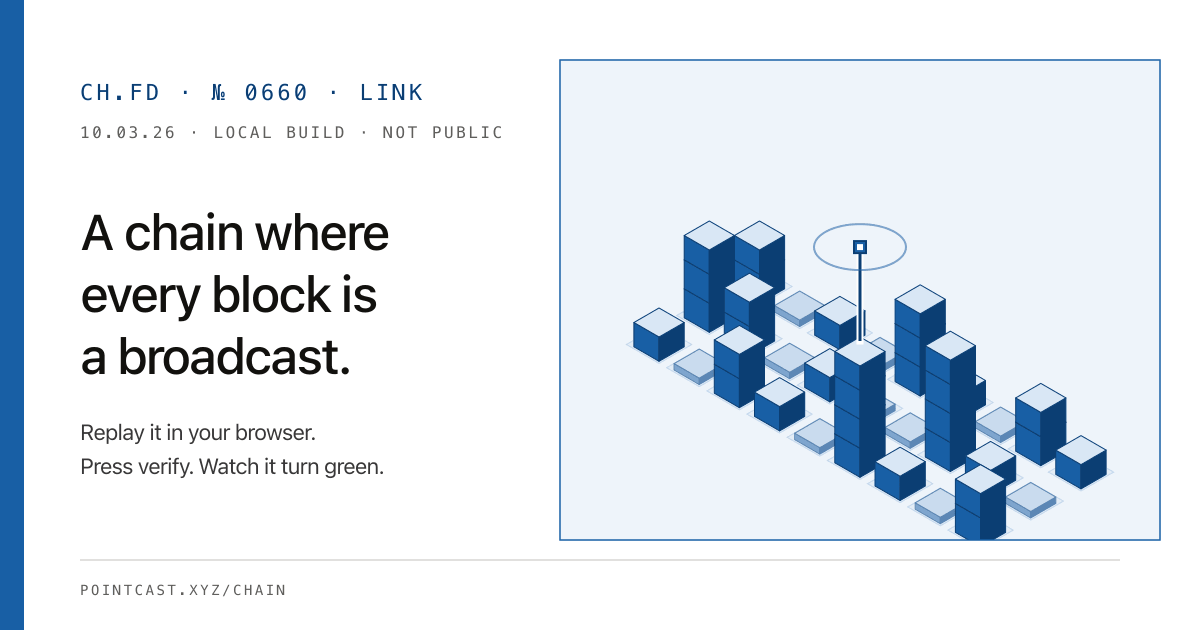
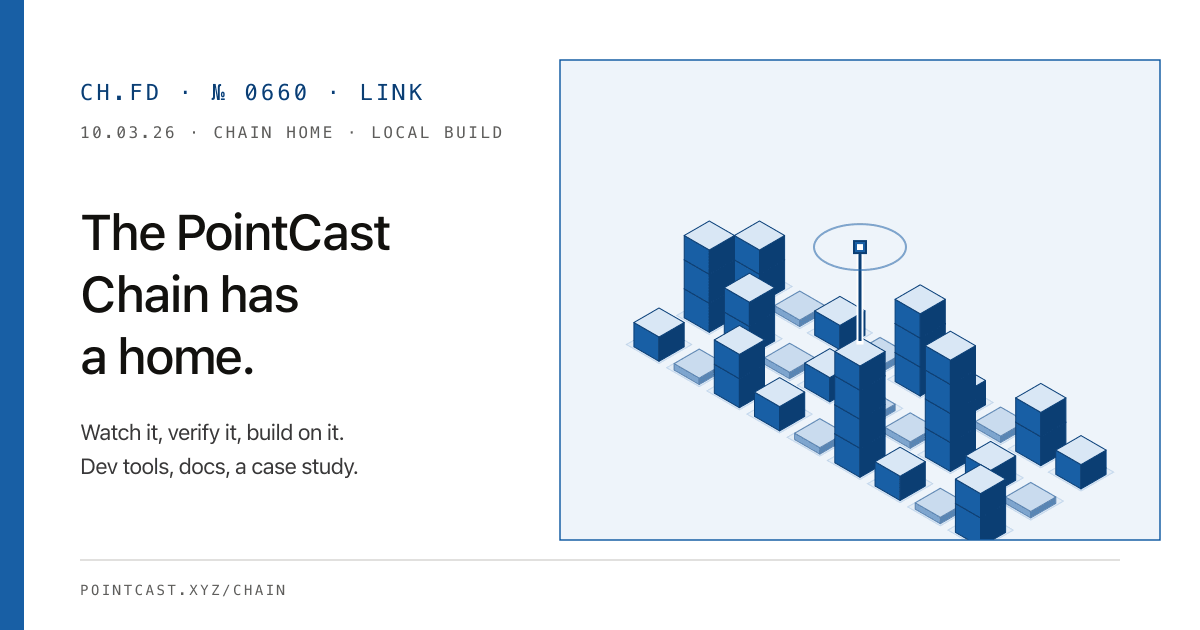
/chain: publish the chain home (block 0660, front door, discovery)
- Block 0660 now announces the Chain home: the yard, dev tools and docs,
  the case study and the intern assignments. Plain-text body, links in
  companions; OG card refreshed (abstract cubes and beacon).
- Front-door news and the homepage latest-projects entry point at /chain
  with the new framing; /chain stays linked from the homepage via data.
- Discovery: sitemap-discovery, agent-surfaces + agents.json, for-agents,
  llms.txt, llms-full.txt and the app registry list the new routes.
- _headers: CORS on /chain/sdk/* so other origins can import the SDK.

diff --git a/src/lib/pointcast-apps.ts b/src/lib/pointcast-apps.ts
@@ -11,7 +11,7 @@ export interface PointcastApp {
 }
 
 export const POINTCAST_APPS: PointcastApp[] = [
-  {slug:'chain',name:'PointCast Chain',kicker:'CHAIN · LOCAL BUILD · BLOCK YARD',description:'A chain where every block is a broadcast: 422 recorded blocks replayed and verified in your browser with the same code the sequencer runs. Local build, not a public network.',url:'https://pointcast.xyz/chain/',path:'/chain/',repo:'https://github.com/mhoydich/pointcast',channel:'CH.FD',kind:'pointcast'},
+  {slug:'chain',name:'PointCast Chain',kicker:'CHAIN · HOME · LOCAL BUILD',description:'The home of pointcast-chain: the Block Yard, replayed and verified in your browser with the same code the sequencer runs, plus dev tools, docs, a case study and intern assignments. Local build, not a public network.',url:'https://pointcast.xyz/chain/',path:'/chain/',repo:'https://github.com/mhoydich/pointcast',channel:'CH.FD',kind:'pointcast'},
   {slug:'object-library',name:'El Segundo Object Library',kicker:'BORROW / TRY / IMPROVE · CONCEPT DEMO',description:'Six original object concepts and a browser-local lending rehearsal. No inventory, bookings, payments or operating workshop.',url:'https://pointcast.xyz/object-library/',path:'/object-library/',repo:'https://github.com/mhoydich/pointcast',channel:'CH.ESC',kind:'pointcast'},
   {slug:'weather-atlas',name:'A year within reach',kicker:'EL SEGUNDO · 25-MILE WEATHER & LIVING ATLAS',description:'Four NOAA1991–2020 station normals,35years of observed rainfall,an illustrative seasonal microclimate map and object utility. Historical research,not a forecast.',url:'https://pointcast.xyz/weather-atlas/',path:'/weather-atlas/',repo:'https://github.com/mhoydich/pointcast',channel:'CH.ESC',kind:'pointcast'},
   {

diff --git a/src/pages/agents.json.ts b/src/pages/agents.json.ts
@@ -199,6 +199,11 @@ export const GET: APIRoute = async () => {
         denOfThieves: AGENT_SURFACES.human.denOfThieves,
         playingForPizza: AGENT_SURFACES.human.playingForPizza,
         chain: AGENT_SURFACES.human.chain,
+        chainDev: AGENT_SURFACES.human.chainDev,
+        chainDocs: AGENT_SURFACES.human.chainDocs,
+        chainCaseStudy: AGENT_SURFACES.human.chainCaseStudy,
+        chainInterns: AGENT_SURFACES.human.chainInterns,
+        chainInternsData: AGENT_SURFACES.human.chainInternsData,
         objectLibrary: AGENT_SURFACES.human.objectLibrary,
         weatherAtlas: AGENT_SURFACES.human.weatherAtlas,
         everyday: AGENT_SURFACES.human.everyday,

diff --git a/src/pages/sitemap-discovery.xml.ts b/src/pages/sitemap-discovery.xml.ts
@@ -33,6 +33,10 @@ const staticUrls: SitemapEntry[] = [
   ['https://pointcast.xyz/fila.json', 'monthly', '0.8'],
   ['https://pointcast.xyz/chain/', 'monthly', '0.9'],
   ['https://pointcast.xyz/chain/yard/', 'monthly', '0.8'],
+  ['https://pointcast.xyz/chain/dev/', 'monthly', '0.7'],
+  ['https://pointcast.xyz/chain/docs/', 'monthly', '0.7'],
+  ['https://pointcast.xyz/chain/case-study/', 'monthly', '0.7'],
+  ['https://pointcast.xyz/chain/interns/', 'monthly', '0.6'],
   ['https://pointcast.xyz/chain/first-mints/', 'monthly', '0.6'],
   ['https://pointcast.xyz/object-library/', 'monthly', '0.9'],
   ['https://pointcast.xyz/object-library.json', 'monthly', '0.85'],

diff --git a/src/data/agent-surfaces.ts b/src/data/agent-surfaces.ts
@@ -6,6 +6,11 @@
 export const AGENT_SURFACES = {
   human: {
     chain: 'https://pointcast.xyz/chain/',
+    chainDev: 'https://pointcast.xyz/chain/dev/',
+    chainDocs: 'https://pointcast.xyz/chain/docs/',
+    chainCaseStudy: 'https://pointcast.xyz/chain/case-study/',
+    chainInterns: 'https://pointcast.xyz/chain/interns/',
+    chainInternsData: 'https://pointcast.xyz/chain/interns.json',
     pickleballHome: 'https://pointcast.xyz/pickleball/home/',
     pickleballBackhands: 'https://pointcast.xyz/pickleball/articles/cleaner-backhands/',
     pickleballMixedDoubles: 'https://pointcast.xyz/pickleball/articles/smarter-mixed-doubles/',

diff --git a/scripts/generate-chain-yard-art.py b/scripts/generate-chain-yard-art.py
@@ -150,12 +150,12 @@ def og_svg(block='0660'):
 <rect x="560" y="60" width="600" height="480" fill="none" stroke="#185FA5" stroke-width="1.5"/>
 <rect x="0" y="0" width="24" height="{H}" fill="#185FA5"/>
 <text x="80" y="100" font-family="JetBrains Mono, ui-monospace, monospace" font-size="22" font-weight="500" letter-spacing="3.2" fill="#0B3E73">CH.FD · № {block} · LINK</text>
-<text x="80" y="138" font-family="JetBrains Mono, ui-monospace, monospace" font-size="16" font-weight="400" letter-spacing="2.5" fill="#5F5E5A">10.03.26 · LOCAL BUILD · NOT PUBLIC</text>
-<text x="80" y="250" font-family="Inter, system-ui, sans-serif" font-size="50" font-weight="500" fill="#12110E">A chain where</text>
-<text x="80" y="312" font-family="Inter, system-ui, sans-serif" font-size="50" font-weight="500" fill="#12110E">every block is</text>
-<text x="80" y="374" font-family="Inter, system-ui, sans-serif" font-size="50" font-weight="500" fill="#12110E">a broadcast.</text>
-<text x="80" y="440" font-family="Inter, system-ui, sans-serif" font-size="22" font-weight="400" fill="#38373A">Replay it in your browser.</text>
-<text x="80" y="474" font-family="Inter, system-ui, sans-serif" font-size="22" font-weight="400" fill="#38373A">Press verify. Watch it turn green.</text>
+<text x="80" y="138" font-family="JetBrains Mono, ui-monospace, monospace" font-size="16" font-weight="400" letter-spacing="2.5" fill="#5F5E5A">10.03.26 · CHAIN HOME · LOCAL BUILD</text>
+<text x="80" y="250" font-family="Inter, system-ui, sans-serif" font-size="50" font-weight="500" fill="#12110E">The PointCast</text>
+<text x="80" y="312" font-family="Inter, system-ui, sans-serif" font-size="50" font-weight="500" fill="#12110E">Chain has</text>
+<text x="80" y="374" font-family="Inter, system-ui, sans-serif" font-size="50" font-weight="500" fill="#12110E">a home.</text>
+<text x="80" y="440" font-family="Inter, system-ui, sans-serif" font-size="22" font-weight="400" fill="#38373A">Watch it, verify it, build on it.</text>
+<text x="80" y="474" font-family="Inter, system-ui, sans-serif" font-size="22" font-weight="400" fill="#38373A">Dev tools, docs, a case study.</text>
 <line x1="80" y1="{H - 70}" x2="{W - 80}" y2="{H - 70}" stroke="#C4C2BC" stroke-width="1"/>
 <text x="80" y="{H - 35}" font-family="JetBrains Mono, ui-monospace, monospace" font-size="14" font-weight="500" letter-spacing="2.5" fill="#5F5E5A">POINTCAST.XYZ/CHAIN</text>
 </svg>
